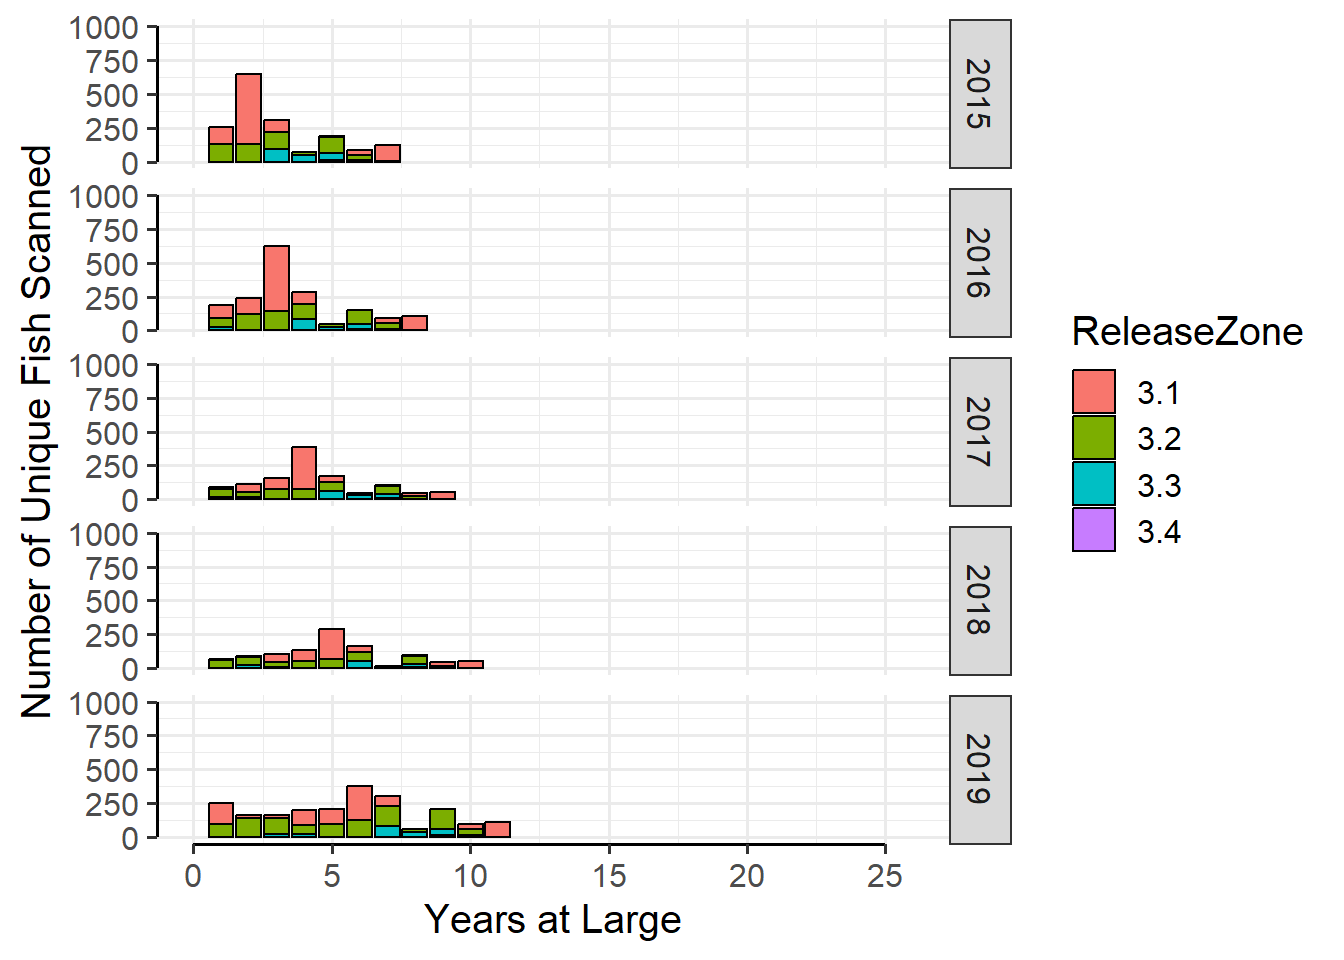
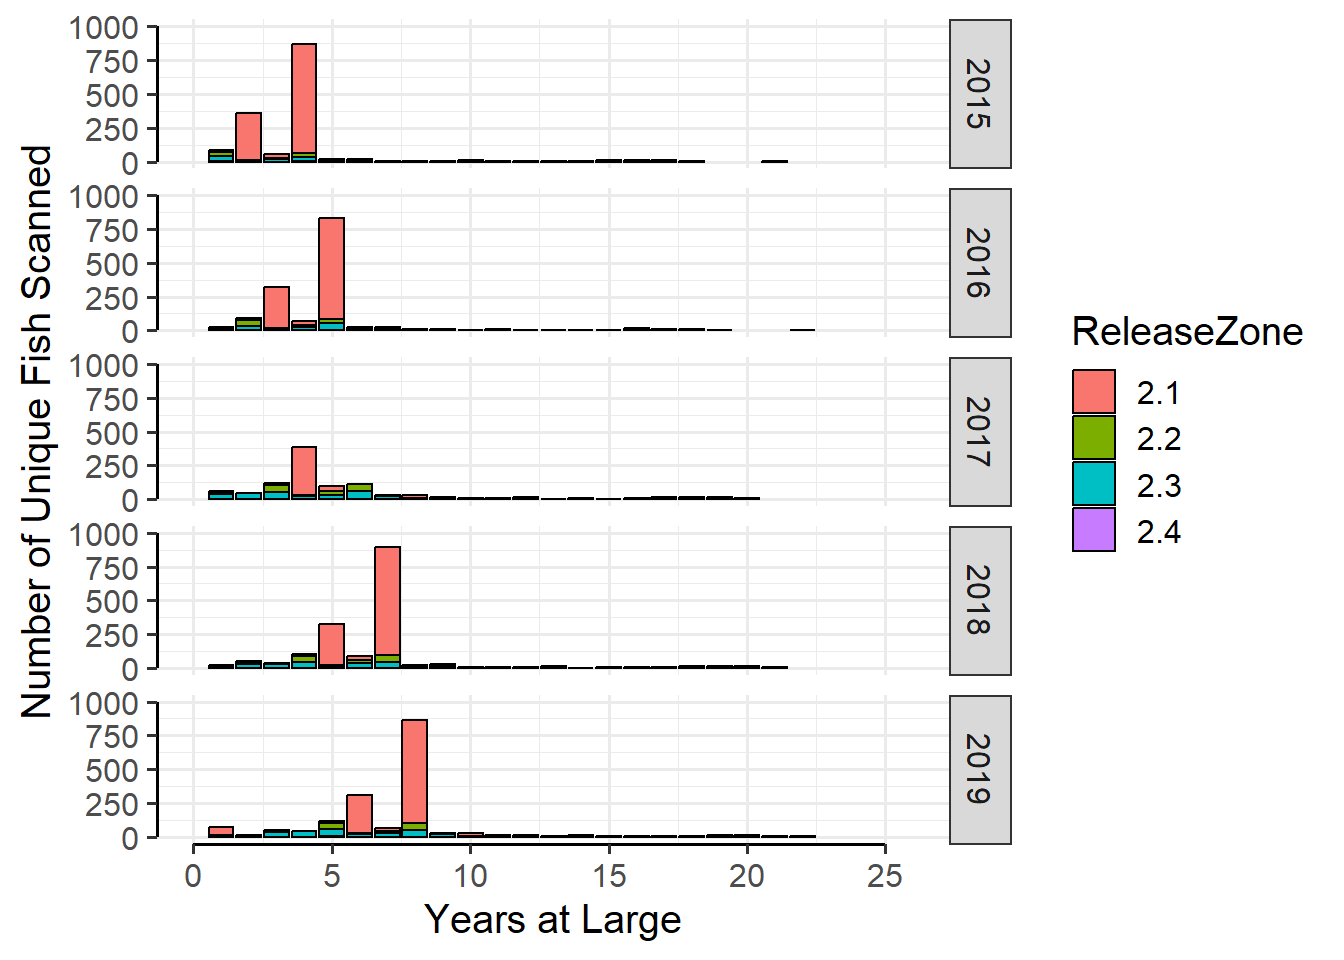
Minor text update

diff --git a/AgeStructure.html b/AgeStructure.html
@@ -69,14 +69,14 @@ ul.task-list li input[type="checkbox"] {
 </header>
 
 
-<section id="mscp-reach-3" class="level2">
-<h2 class="anchored" data-anchor-id="mscp-reach-3">MSCP Reach 3</h2>
+<section id="mscp-reach-2" class="level2">
+<h2 class="anchored" data-anchor-id="mscp-reach-2">MSCP Reach 2</h2>
 <p>An age structure analysis was developed based on PIT scanning for zones within a reach that had at least 200 unique fish contacted. A map of color coded zones and locations can be found here: <a href="https://brian-kesner.shinyapps.io/LocationMapping/">Location Mapping App</a></p>
 <p>The age structure was developed for each fiscal year (FY; October through September) from 2015 to 2024. Age was based on years at large (YAL; the number of years post-stocking), because actual age for many fish in hatcheries is unknown due to mixing of year classes.</p>
 <p>The YAL for a given fish was calculated from the number of years between release FY and scan year FY. The calculated YAL for each fish was the whole number of years a fish was at large just prior to the start of each scanning FY. A fish released in FY 2020 (October 1, 2019 to September 30, 2020) and scanned in FY 2021 (October 1, 2020 to September 30, 2021) could have been at large for 0 days prior to the start of FY 2021 (released September 30, 2020, the last day of FY 2020) or at large for one day less than a year (released October 1, 2019) and would have a calculated YAL age of zero. A fish released in FY 2019 (October 1, 2018 to September 30, 2019) and scanned in FY 2023 (October 1, 2022 to September 30, 2023) will have a YAL of 3 and would have been at large for anywhere from 3 to just shy of 4 years at the beginning of FY 2023.</p>
-<p>Fish included in the analysis for each scan FY must have been at large for more than one year; calculated YAL equal to or greater than one. YAL was calculated for all fish repatriated to MSCP Reach 3 with a TL measurement (in millimeters). Age structure was examined using stacked bar charts produced separately by zone and scan FY, each stack color coded by zone of release. To maintain a consistent x-axis range between figures, all fish 25 YAL and older were given the age of 25 YAL (max age was 25 YAL).</p>
+<p>Fish included in the analysis for each scan FY must have been at large for more than one year; calculated YAL equal to or greater than one. YAL was calculated for all fish repatriated to MSCP Reach 2 with a TL measurement (in millimeters). Age structure was examined using stacked bar charts produced separately by zone and scan FY, each stack color coded by zone of release. To maintain a consistent x-axis range between figures, all fish 25 YAL and older were given the age of 25 YAL (max age was 25 YAL).</p>
 <p>TL at release is known to significantly impact post-release survival (Marsh et al.&nbsp;2005). To illustrate the impact of release size distribution on age structure, release cohorts for each zone and FY were summarized in bar charts with release numbers divided between two size classes: shorter than 400 mm TL, and equal to or longer than 400 mm TL. This size class cutoff was smaller than the TL generally considered as a safe target size for release; 500 mm TL (Wisenall et al.&nbsp;2015). However, a longer size cutoff resulted in many years with no fish released in the larger size class. The size cutoff was reduced to increase the number of sample cohorts available for analysis.</p>
-<p>The age structure for zone 3.1 is shown in <a href="#fig-FirstZoneYAL1" class="quarto-xref">Figure&nbsp;1</a> and <a href="#fig-FirstZoneYAL2" class="quarto-xref">Figure&nbsp;2</a>.</p>
+<p>The age structure for zone 2.1 is shown in <a href="#fig-FirstZoneYAL1" class="quarto-xref">Figure&nbsp;1</a> and <a href="#fig-FirstZoneYAL2" class="quarto-xref">Figure&nbsp;2</a>.</p>
 <div class="cell">
 <div class="cell-output-display">
 <div id="fig-FirstZoneYAL1" class="quarto-float quarto-figure quarto-figure-center anchored">
@@ -85,7 +85,7 @@ ul.task-list li input[type="checkbox"] {
 <img src="AgeStructure_files/figure-html/fig-FirstZoneYAL1-1.png" class="img-fluid figure-img" width="672">
 </div>
 <figcaption class="quarto-float-caption-bottom quarto-float-caption quarto-float-fig" id="fig-FirstZoneYAL1-caption-0ceaefa1-69ba-4598-a22c-09a6ac19f8ca">
-Figure&nbsp;1: Age structure based on years-at-large, part 1.
+Figure&nbsp;1: Age structure based on years-at-large based on PIT scanning during each fiscal year, (early years)
 </figcaption>
 </figure>
 </div>
@@ -99,13 +99,13 @@ Figure&nbsp;1: Age structure based on years-at-large, part 1.
 <img src="AgeStructure_files/figure-html/fig-FirstZoneYAL2-1.png" class="img-fluid figure-img" width="672">
 </div>
 <figcaption class="quarto-float-caption-bottom quarto-float-caption quarto-float-fig" id="fig-FirstZoneYAL2-caption-0ceaefa1-69ba-4598-a22c-09a6ac19f8ca">
-Figure&nbsp;2: Age structure based on years-at-large, part 2.
+Figure&nbsp;2: Age structure based on years-at-large based on PIT scanning during each fiscal year, (recent years).
 </figcaption>
 </figure>
 </div>
 </div>
 </div>
-<p>The age structure for zone 3.2 is shown in <a href="#fig-FirstZoneYAL3" class="quarto-xref">Figure&nbsp;3</a> and <a href="#fig-FirstZoneYAL4" class="quarto-xref">Figure&nbsp;4</a>.</p>
+<p>The age structure for zone 2.3 is shown in <a href="#fig-FirstZoneYAL3" class="quarto-xref">Figure&nbsp;3</a> and <a href="#fig-FirstZoneYAL4" class="quarto-xref">Figure&nbsp;4</a>.</p>
 <div class="cell">
 <div class="cell-output-display">
 <div id="fig-FirstZoneYAL3" class="quarto-float quarto-figure quarto-figure-center anchored">
@@ -114,7 +114,7 @@ Figure&nbsp;2: Age structure based on years-at-large, part 2.
 <img src="AgeStructure_files/figure-html/fig-FirstZoneYAL3-1.png" class="img-fluid figure-img" width="672">
 </div>
 <figcaption class="quarto-float-caption-bottom quarto-float-caption quarto-float-fig" id="fig-FirstZoneYAL3-caption-0ceaefa1-69ba-4598-a22c-09a6ac19f8ca">
-Figure&nbsp;3: Age structure based on years-at-large, part 2.
+Figure&nbsp;3: Age structure based on years-at-large based on PIT scanning during each fiscal year, (early years)
 </figcaption>
 </figure>
 </div>
@@ -128,7 +128,7 @@ Figure&nbsp;3: Age structure based on years-at-large, part 2.
 <img src="AgeStructure_files/figure-html/fig-FirstZoneYAL4-1.png" class="img-fluid figure-img" width="672">
 </div>
 <figcaption class="quarto-float-caption-bottom quarto-float-caption quarto-float-fig" id="fig-FirstZoneYAL4-caption-0ceaefa1-69ba-4598-a22c-09a6ac19f8ca">
-Figure&nbsp;4: Age structure based on years-at-large, part 2.
+Figure&nbsp;4: Age structure based on years-at-large based on PIT scanning during each fiscal year, (recent years).
 </figcaption>
 </figure>
 </div>
